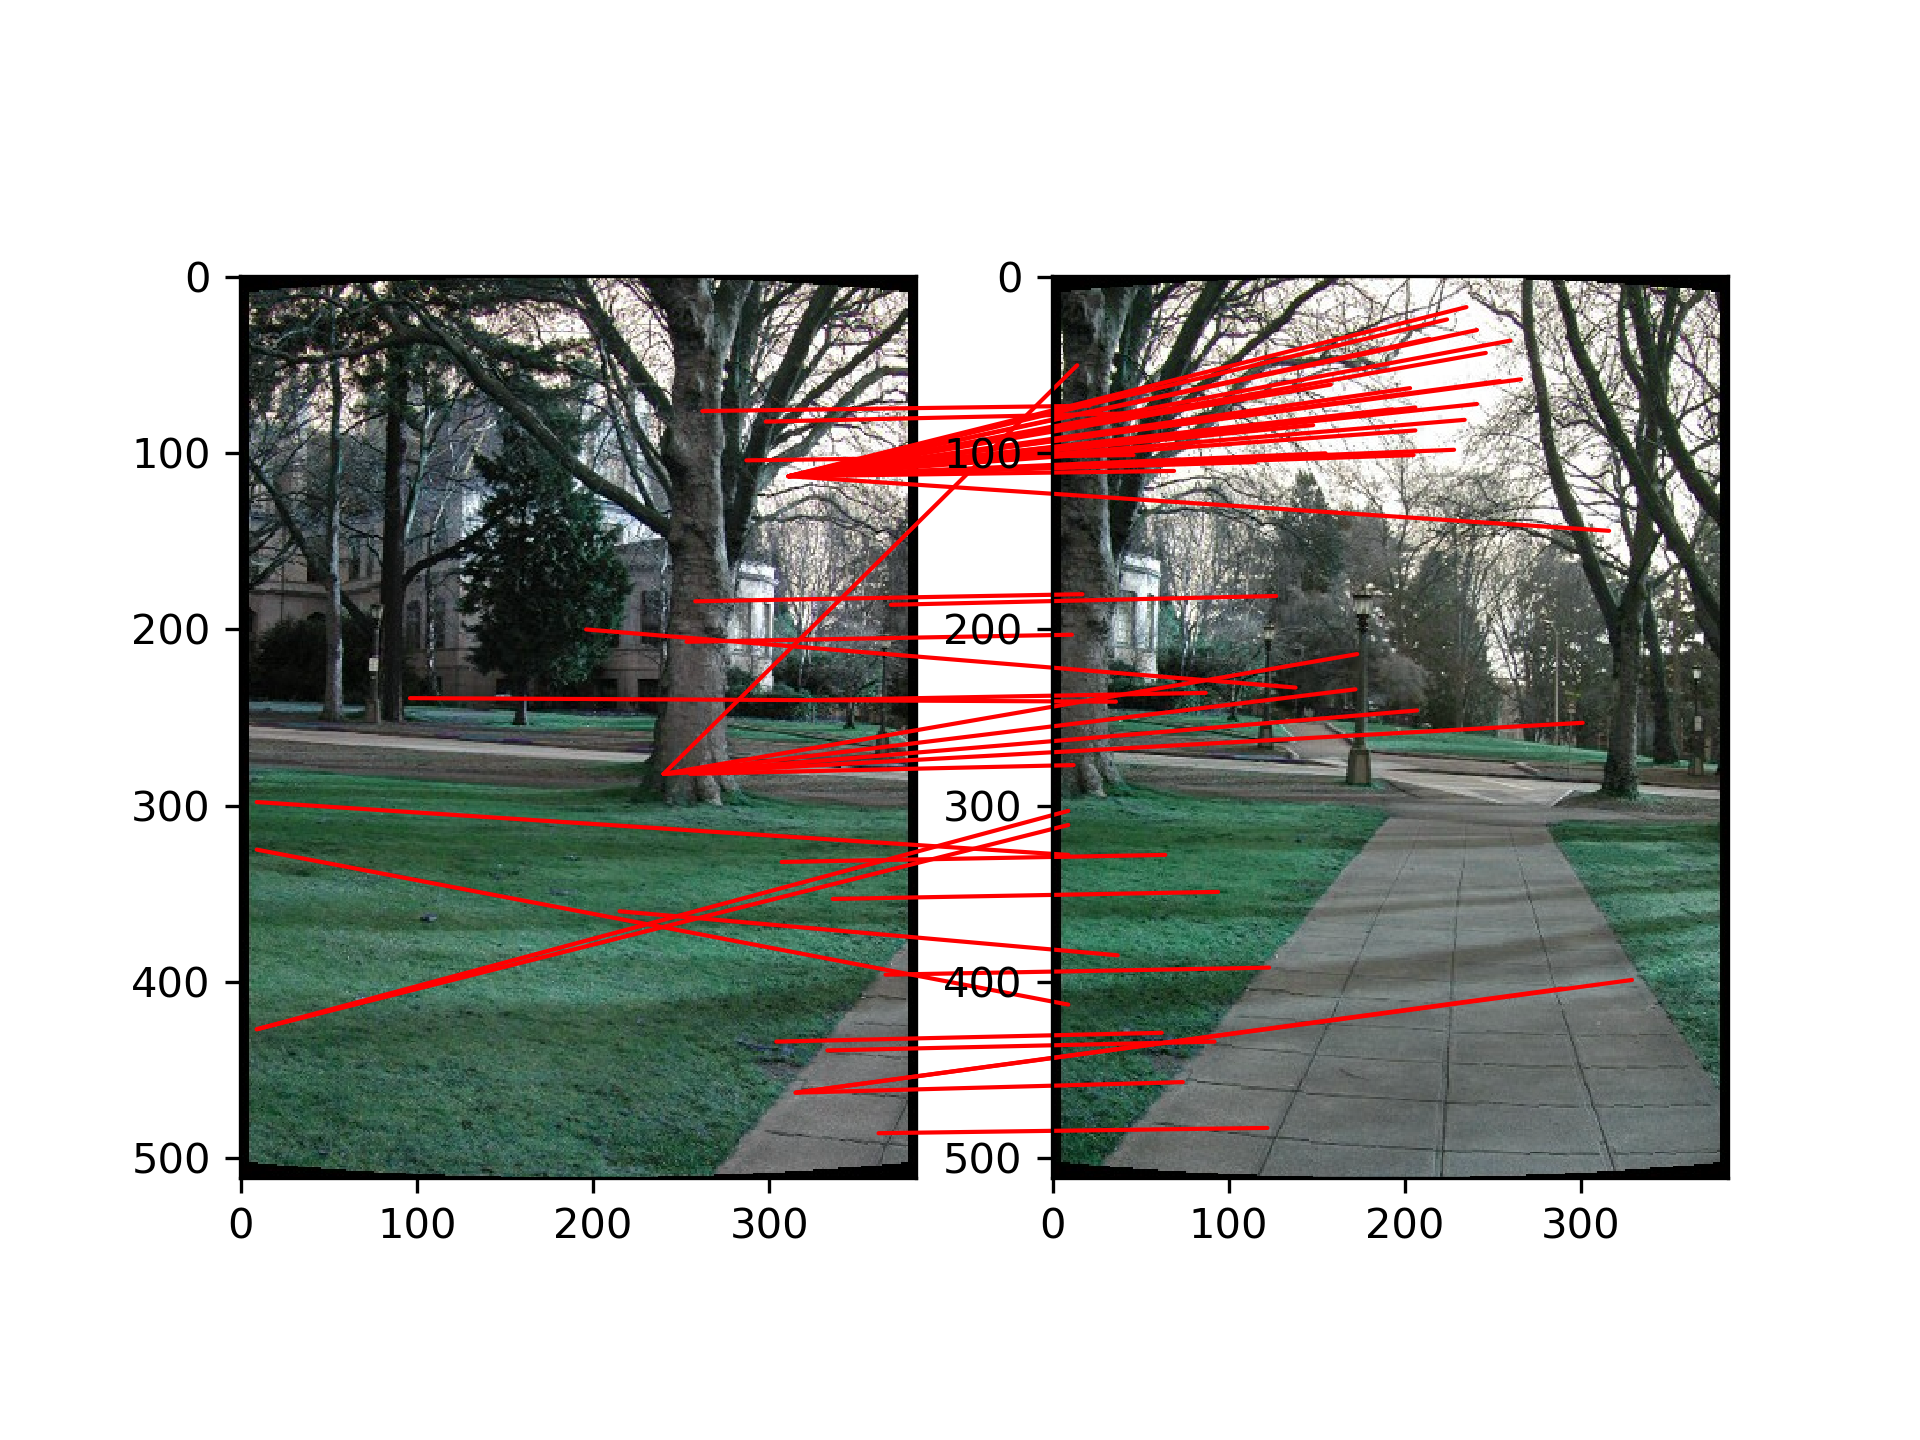
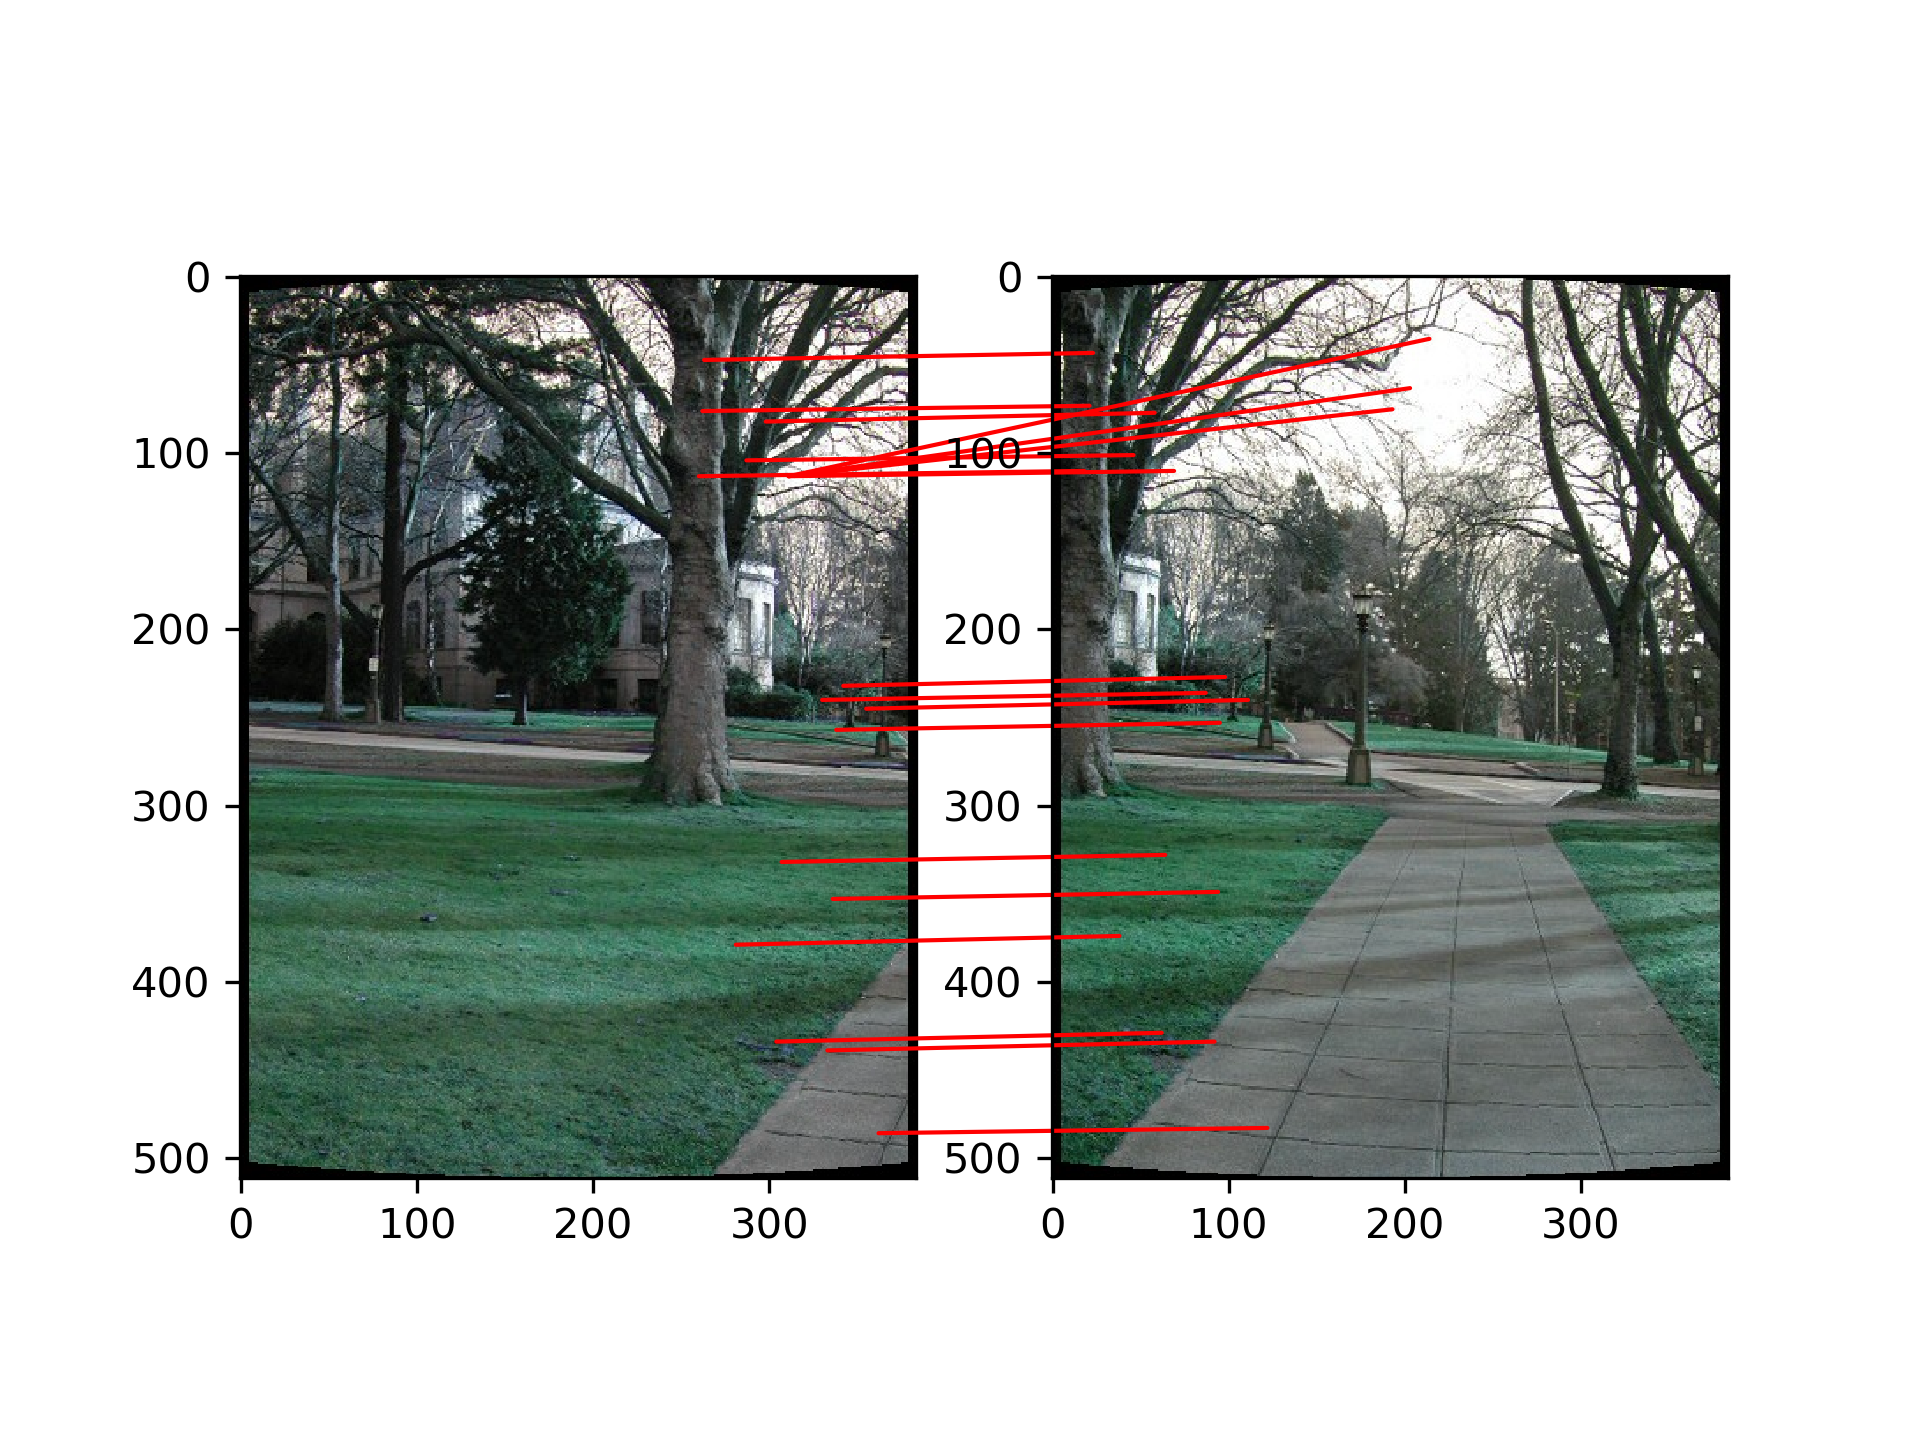
RANSAC

diff --git a/ImageStitching/code/matching.py b/ImageStitching/code/matching.py
@@ -1,6 +1,8 @@
 import numpy as np
 import cv2
 import argparse
+import random
+import math
 from util import *
 from harris import *
 
@@ -12,14 +14,14 @@ class Matching:
         self.image_amount = len(descriptors)
         self.output_dir = output_dir
 
-    def warp(self):
+    def process(self):
         # go through each image
         for index, image in enumerate(self.images):
             if index == (self.image_amount-1): # skip last image
                 break
             self.feature_matching(self.features[index], self.features[index+1], self.descriptors[index], self.descriptors[index+1])
             draw_match_line(self.images[index], self.images[index+1], self.match_list, self.features[index], path=f'{self.output_dir}/{index}')
-        return
+            self.Ransac(self.match_list, self.features[index])
 
     def feature_matching(self, feature_points, next_feature_points, descriptor, next_descriptor):
         # find matching feature descriptors for a pair of images
@@ -40,15 +42,108 @@ class Matching:
                     else:
                         second_min_dist = dist
 
-            # best match distance is 0.8 times smaller than second best match distance
+            # best match distance is much smaller than second best match distance
             if second_min_dist > 0:    
-                if (min_dist/second_min_dist) <= 0.8:
-                    self.match_list[i] = [match_r, match_c]
-            # self.match_list[i] = [match_r, match_c]
-        return
+                if (min_dist/second_min_dist) <= 0.75:
+                    self.match_list[i] = [int(match_r), int(match_c)]
+
+    def Ransac(self, next_img_match, img_feature):
+        min_error, max_inlier = float("inf"), float("-inf")
+        for k in range(repeat_k):
+            if k%10 == 0:
+                print("Epoch " + str(k))
+
+            # get sample points with no duplicate
+            sample, sample_uv, sample_xy = [], [], []
+            while True:
+                temp = random.randint(0,len(next_img_match)-1)
+                if next_img_match[temp][0] != 0 and next_img_match[temp][1] != 0:
+                    sample.append(temp)
+
+                if len(set(sample)) == sample_amount:
+                    break
+
+            sample = set(sample)
+            for s in sample:
+                sample_uv.append([int(next_img_match[s][0]), int(next_img_match[s][1])])
+                sample_xy.append([int(img_feature[s][0]), int(img_feature[s][1])])
+
+            # calculate H using normalized DLT
+            H = self.DLT(sample_xy, sample_uv)
+            if np.linalg.matrix_rank(H) < 3:
+                continue
+            error, inlier = self.get_error(H, next_img_match, img_feature)
+            if error < min_error:
+                min_error = error
+                max_inlier = inlier
+                best_H = H.copy()
+
+        print(min_error, max_inlier)
+            
 
 
 
+    def DLT(self, xy, uv):
+        xy = np.asarray(xy)
+        uv = np.asarray(uv)
+        # number of points
+        num = xy.shape[0]
+
+        Txy, xyn = self.Normalization(xy)
+        Tuv, uvn = self.Normalization(uv)
+
+        A = []
+        for i in range(num):
+            x,y = xyn[i,0], xyn[i,1]
+            u,v = uvn[i,0], uvn[i,1]
+            A.append( [x, y, 1, 0, 0, 0, -u*x, -u*y, -u] )
+            A.append( [0, 0, 0, x, y, 1, -v*x, -v*y, -v] )
+
+        # convert A to array
+        A = np.asarray(A) 
+        # find the 8 parameters:
+        U, S, Vh = np.linalg.svd(A)
+        # the parameters are in the last line of Vh and normalize them:
+        L = Vh[-1,:] / Vh[-1,-1]
+        # camera projection matrix
+        H = L.reshape(3,3)
+        # denormalization
+        H = np.dot( np.dot( np.linalg.pinv(Tuv), H ), Txy );
+        H = H / H[-1,-1]
+        # L = H.flatten(order='C')
+
+        return H
+
+    def Normalization(self, x):
+        x = np.asarray(x)
+        m, s = np.mean(x,0), np.std(x)
+        Tr = np.array([[s, 0, m[0]], [0, s, m[1]], [0, 0, 1]])
+            
+        Tr = np.linalg.inv(Tr)
+        x = np.dot( Tr, np.concatenate( (x.T, np.ones((1,x.shape[0]))) ) )
+        x = x[0:2,:].T
+        return Tr, x
+
+    # calculate match point distance with H as homography matrix
+    def get_error(self, H, next_img_match, img_feature):
+        xy_match_points = np.concatenate((img_feature, np.ones(((len(next_img_match)), 1))), axis=1)
+        estimate_point = np.zeros((len(next_img_match), 2))
+        errors, inliers = 0, 0
+        for i in range(len(next_img_match)):
+            if next_img_match[i][0] == 0 and next_img_match[i][1] == 0:
+                continue
+            prime = np.dot(H, xy_match_points[i])
+            estimate_point[i] = prime[0:2]
+            err = math.sqrt((next_img_match[i][0] - estimate_point[i][0])**2 + (next_img_match[i][1] - estimate_point[i][1])**2 )
+            if err < threshold:
+                inliers += 1
+            errors += err
+        return errors, inliers
+
+
+repeat_k = 100
+sample_amount = 4
+threshold = 30
 if __name__ == '__main__':
     # parse command line arguments
     # Usage: python3 matching.py <input> <output>
@@ -65,17 +160,17 @@ if __name__ == '__main__':
     image_paths = image_paths_under_dir(input_dir)
     image_list, feature_list, desc_list = [], [], []
     for index, file_name in enumerate(image_paths):
-        # if index < 2:
-        image = cv2.imread(f'{input_dir}/{file_name}')
-        image_list.append(image)
-        harris = HarrisCornerDetector(image, output_path=f'{output_dir}/{file_name}')
-        feature_map, feature_desc, feature_point = harris.get_feature_map(guassian_window_size, gaussian_sigma, harris_k, non_maximal_window_size, descriptor_window_size, f'{output_dir}/feature_{file_name}')
-        feature_list.append(feature_point)
-        desc_list.append(feature_desc)
+        if index < 2:
+            image = cv2.imread(f'{input_dir}/{file_name}')
+            image_list.append(image)
+            harris = HarrisCornerDetector(image, output_path=f'{output_dir}/{file_name}')
+            feature_map, feature_desc, feature_point = harris.get_feature_map(guassian_window_size, gaussian_sigma, harris_k, non_maximal_window_size, descriptor_window_size, f'{output_dir}/feature_{file_name}')
+            feature_list.append(feature_point)
+            desc_list.append(feature_desc)
 
     # match feature and match image
     match = Matching(image_list, feature_list, desc_list, output_dir=f'{match_dir}')
-    match.warp()
+    match.process()
 
 
 

diff --git a/ImageStitching/code/util.py b/ImageStitching/code/util.py
@@ -54,19 +54,13 @@ def draw_match_line(image, next_image, match_map, feature, path=None):
     ax1 = fig.add_subplot(1,2,2)
     plt.imshow(image)
 
-    # plt.figure()
-    # ax1 = plt.subplot(121)
-    # plt.imshow(next_image)
-    # ax2 = plt.subplot(122)
-    # plt.imshow(image)
-
 
     for i in range(len(match_map)):
         if match_map[i][0] == 0 and match_map[i][1] == 0:
             continue
         xyA = (match_map[i][1], match_map[i][0])
         xyB = (feature[i][1], feature[i][0]) 
-        # print(str(xyA)+" to "+str(xyB))
+        # print(str(xyB)+" to "+str(xyA))
         coordsA = "data"
         coordsB = "data"
         con = ConnectionPatch(xyB, xyA, coordsA, coordsB, axesA=ax1, axesB=ax2, color="red")

diff --git a/ImageStitching/code/harris.py b/ImageStitching/code/harris.py
@@ -100,7 +100,7 @@ guassian_window_size = 5
 gaussian_sigma = 3
 harris_k = 0.05
 non_maximal_window_size = 15
-descriptor_window_size = 11
+descriptor_window_size = 33
 if __name__ == '__main__':
 
     # parse command line arguments
